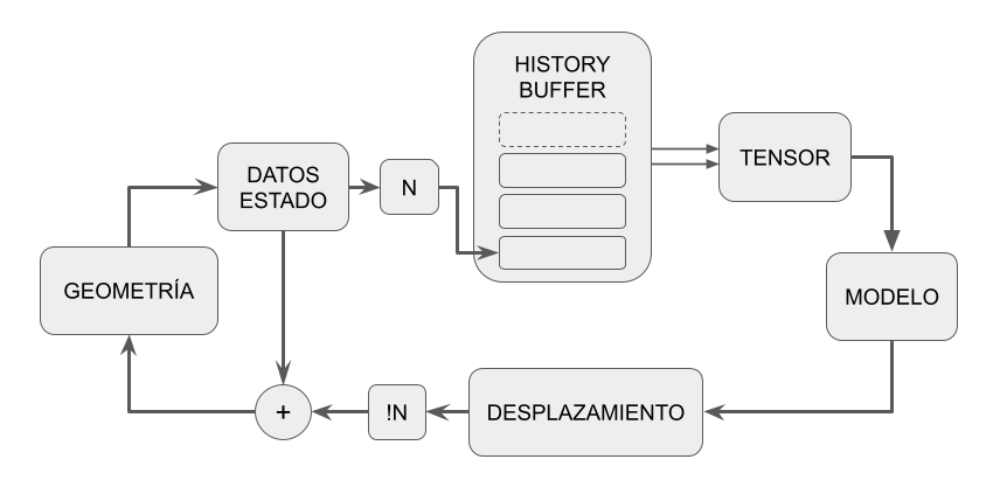
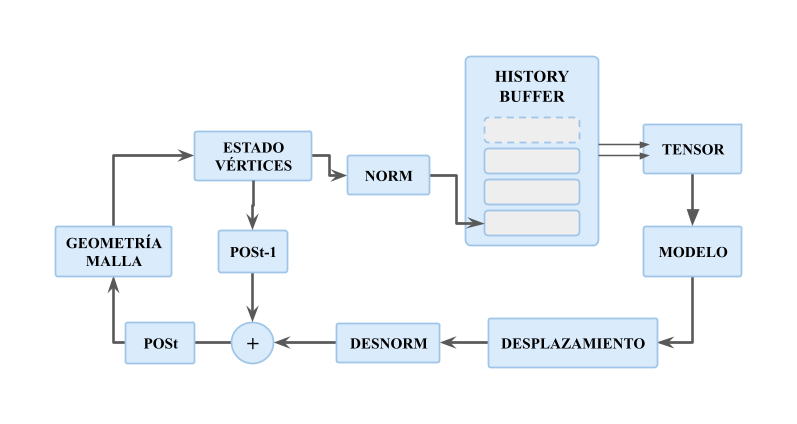
Conclusiones
Concluimos.

diff --git a/Memoria/Memoria-TFG-main/src/Capitulos/ConclusionesTrabajoFuturo.tex b/Memoria/Memoria-TFG-main/src/Capitulos/ConclusionesTrabajoFuturo.tex
@@ -2,27 +2,28 @@
 \label{cap:conclusiones}
 
 \section{Conclusiones}
-El objetivo de esta investigación era conseguir replicar el movimiento de una tela en Unity a una tasa más baja de frames, haciéndolo accesible para desarrolladores indies y pudiéndole ejecutarse en equipos de rendimiento menor como portátiles poco potentes o móviles. \newline
+El objetivo de esta investigación era conseguir replicar el movimiento de una tela en un motor de videojuegos a tiempo real con baja latencia, haciéndolo accesible para desarrolladores indies y pudiéndose ejecutarse en equipos de rendimiento menor como portátiles de potencia reducida o móviles. \newline
 
-Se crearon simulaciones de telas con geometrías simples y movimientos dinámicos provocados por un objeto colisionador en Unity. De estas se extrajeron datos relevantes de la tela durante la ejecución y se convirtieron a formato CSV. A partir de estos datasets se configuró un modelo que sea capaz de aprender el comportamiento de la tela. Tras entrenar el modelo, se exportó el modelo a formato ONNX y se cargó de nuevo en Unity, a través del paquete Sentis. La tela ClothML en la simulación consiguió replicar un movimiento fiel al de una tela convencional a través del modelo cargado.\newline
-
-Tras iterar sobre diferentes ténicas y modelos en el entrenamiento, se llegó a la conclusión de que el mejor modelo alcanzable consistía en una red neuronal recurrente RNN unfoldeada. Se afirma que el modelo alcanza resultados visuales fiables a la simulación de la tela y posee un error pequeño, de 0.0004m. Se consigue una tasa de frames en un ordenador de x características de 50fps, mientras que la tela original deja la ejecucion en 2 fps.
-
-Resumiendo, las características que han sido más relevantes para el desarollo del modelo han sido:
+Se crearon simulaciones de telas con geometrías simples y movimientos dinámicos provocados por un objeto colisionador en Unity. Durante la ejecución se extrajeron los datos de interés de la tela y se convirtieron a formato CSV. A partir de estos datasets se configuró un modelo que fuera capaz de aprender el comportamiento de la tela, adoptando poses de reposo y deformaciones realizadas por el colisionador sin colapsar. En el comienzo del modelo se plantearon seis características (que conformarían 13 features) sobre los vértices que podían ser relevantes para capturar la esencia de la tela en la simulación: la posición, el SDF (distancia a superficie colisionadora más cercana), la velocidad, el gradiente de SDF o normales respecto al colisionador, las UVs y la máxima distancia de movimiento desde su origen en la malla de cada vértice. De estas, las tres características que sirvieron para recrear el movimiento y permanecieron para optimizar el modelo fueron la posición, SDF y velocidad. Finalmente, se resaltan las siguientes características como la clave para alcanzar el resultado:
 \begin{itemize}
-    \item Recurrencia
-    \item Unfolding
-    \item Noise
-    \item Grandes datasets
+    \item \textbf{Recurrencia:} el modelo óptimo resultó ser una RNN, red neuronal recurrente. El contexto histórico de las simulaciones es el primer paso para conseguir la coherencia de la simulación. 
+    \item \textbf{Unfolding:} a esta RNN se aplicó una ténica de ``unfolding'', que permite al modelo saber el daño que ocasionará sobre el desplazamiento de los frames siguientes. 
+    \item \textbf{Noise:} el ruido mola. 
+    \item \textbf{Grandes datasets:} grandes cantidades de datos ayudan al modelo a alucinar menos.
 \end{itemize}
+
+El modelo entrenado se exportó a formato ONNX y se cargó de nuevo en Unity, a través del paquete Sentis. El componente de tela resultante ClothML consiguió replicar en la simulación un movimiento fiel al de una tela convencional a través del modelo cargado. Ya no sólo se puede afirmar que el modelo alcanza resultados satisfactorios a través de su ``vertex error'' o distancia entre posiciones predichas y reales en el testing, sino que se confirma el resultado obtenido a efecto visual: se alcanza una simulación natural y fiable a al comportamiento de la tela original. \newline
+
+Con respecto a la reducción de latencia y tasa de frames alcanzada, se consigue llegar a doblar la tasa de frames en un ordenador de x características. ClothML, el componente generado en esta investigación permite conducir la simulación a 50fps, mientras que la tela original la limita a quedarse en 25fps. \newline
+
 
 \subsection{Limitaciones}
 El estudio resultante queda con las siguientes limitaciones:
 \begin{itemize}
-    \item \textbf{Dataset pequeño} en comparación con el estado del arte. Pese a que para el nivel de simplicidad de la tela empleado en la simulación el dataset generado ha sido suficiente para generar un comportamiento fiable a nivel visual, se podrían producir resultados mejores, así como menos dependencia con el objeto colisionador, con más diversidad de movimiento y número de frames totales. Por limitaciones de tiempo, en esta investigación se han usado una media de 5000 frames por entrenamiento, mientras que en otras investigaciones que emplean bancos de simulaciones para entrenar sus modelos llegan a usar hasta $10^{6}$ frames.
-    \item \textbf{Topología y generalización}. El modelo puede generar buenos resultados si lo empleado en la simulación corresponde con el entrenamiento. No es capaz de generalizar a otras topologías o mallas dinámicas.
-    \item \textbf{Complejidad}. El modelo no ha sido probado con telas más complejas o pegadas al cuerpo como camisetas o globos con formas. Podría no resultar óptimo e incluso no producir resultados aceptables en la simulación en Unity. 
-    \item \textbf{Optimización}. Con objeto de producir los mejores resultados posibles, no se ha enfocado toda la fuerza de trabajo en optimizar la parte de simulación en Unity (como sería por ejemplo hacer boxings para el cálculo al objeto colisionador mediante a SDFs).  
+    \item \textbf{Dataset pequeño} en comparación con el estado del arte. Pese a que para el nivel de simplicidad de la tela empleado en la simulación el dataset generado ha sido suficiente para generar un comportamiento fiable a nivel visual, se podrían producir resultados mejores, así como menos dependencia con el objeto colisionador, introduciendo más diversidad de movimiento y número de frames totales. Por limitaciones de tiempo, en esta investigación se han usado una media de 5000 frames por entrenamiento, mientras que en otras investigaciones que emplean bancos de simulaciones para entrenar sus modelos llegan a usar hasta $10^{6}$ frames \cite{holden_subspace_2019}.
+    \item \textbf{Topología y generalización}. El modelo puede generar buenos resultados cuando la tela empleada en el entreamiento y simulación final coinciden. No es capaz de generalizar a otras topologías o mallas dinámicas.
+    \item \textbf{Complejidad}. El modelo no ha sido probado con telas más complejas o pegadas al cuerpo como camisetas o globos con forma. Podría no resultar óptimo e incluso no producir resultados aceptables en la simulación posterior en Unity. 
+    \item \textbf{Optimización}. Con objeto de producir los mejores resultados posibles en el modelo y en el aspecto visual, se ha enfocado la fuerza de trabajo en el entrenamiento y no se ha llevado a cabo una optimización exhaustiva de la simulación en Unity. Detalles como podría ser reducir el cálculo de distancias a los colisionadores no han entrado dentro del plazo de desarollo disponible.
 \end{itemize}
 Todas estas limitaciones conducen a las siguientes propuestas de trabajo futuro.
 
@@ -31,8 +32,8 @@ Todas estas limitaciones conducen a las siguientes propuestas de trabajo futuro.
 
 El trabajo a futuro de este estudio se puede centrar en varios esfuerzos:
 \begin{itemize}
-    \item Realizar pruebas de usuario para comprobar si los resultados obtenidos se perciben como naturales.
-    \item Extender los datasets con más situaciones y  y probar otros modelos más complejos
-    \item Probar con otros tipos de tela más complejas, estáticas pegadas al cuerpo, y potencialmente aplicar técnicas híbridas de animación, simulación e inteligencia artificial para conseguir mejores resultados.
-    \item Añadir la posibilidad de extraer datasets de software especializado como Maya o Blender, e incluso de bancos externos de interés.
+    \item Realizar \textbf{pruebas de usuario} para comprobar si los resultados obtenidos se perciben como naturales. La obtención de feedback por parte de usuarios de videojuegos podría confirmarnos qué aspectos de la tela hemos conseguido replicar y dónde se deberían producir mejoras.
+    \item \textbf{Extender los datasets} con más situaciones y probar otros \textbf{modelos más complejos}. Han quedado por probar modelos de interés como las CNNs, GNNS y redes encoder-decoder.
+    \item Probar con \textbf{otros tipos de tela} más complejas, estáticas pegadas al cuerpo, y potencialmente aplicar \textbf{técnicas híbridas} de animación, simulación e inteligencia artificial para conseguir mejores resultados. Un ejemplo sería combinar técnicas de skinning con ML, atando la tela a huesos y dejando la inercia y arrugas a la inteligencia artificial.
+    \item Añadir la posibilidad de \textbf{extraer datasets de software especializado} como Maya o Blender, e incluso de bancos externos de interés. La obtención de mejores referencias habilitaría la prueba de geometrías más complejas y mayor calidad.
 \end{itemize}
